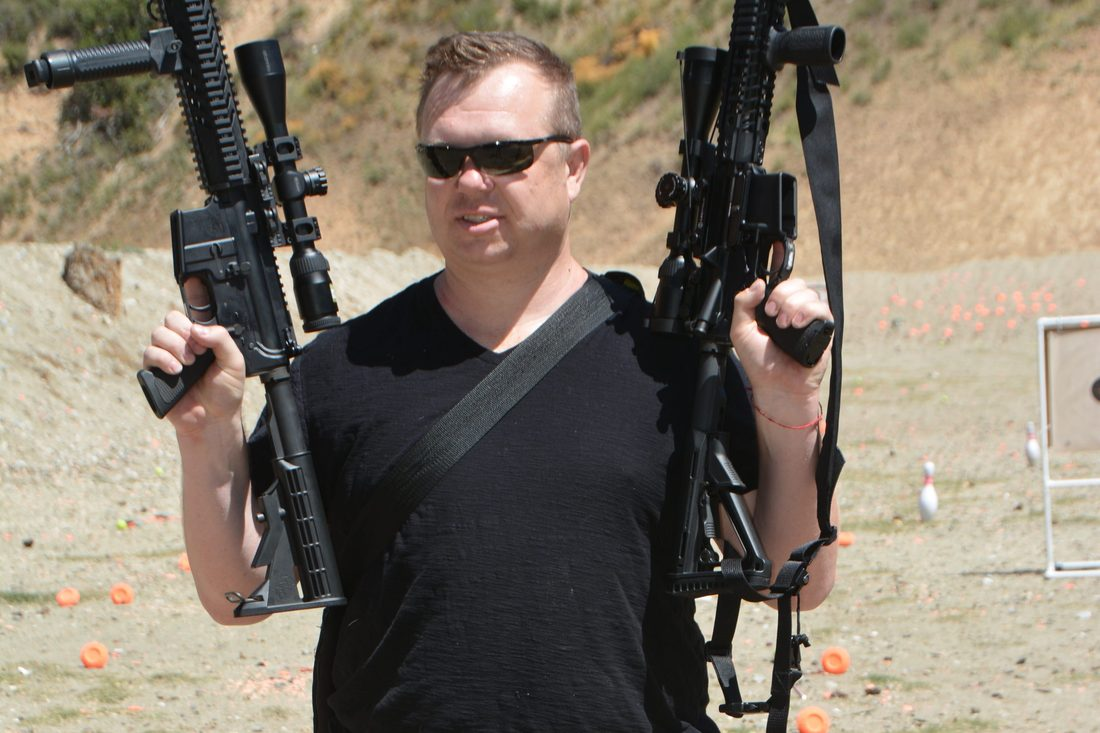
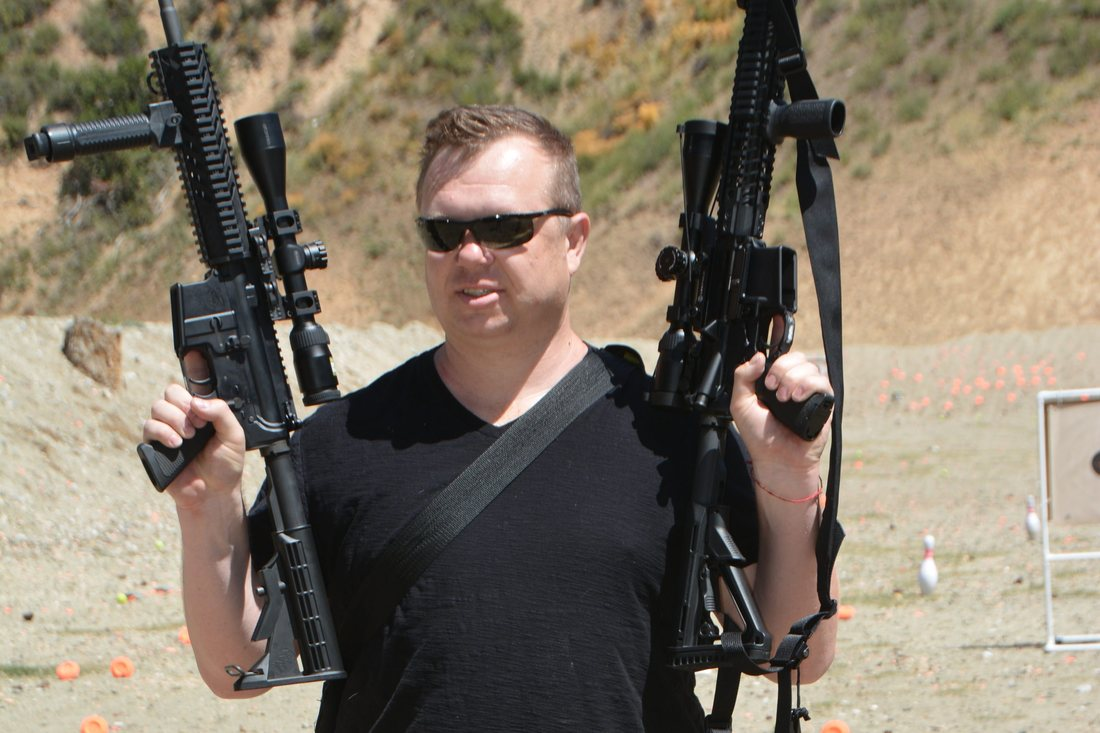
Кадрирование героя на страницах экскурсий: сюжет не срезается сверху

diff --git a/site/assets/style.css b/site/assets/style.css
@@ -522,7 +522,8 @@ footer { background: #101116; color: rgba(242,237,227,.6); padding: 52px 0 100px
 .tpage { padding-top: 0; }
 .thero { position: relative; min-height: min(62svh, 520px); display: flex; align-items: flex-end; color: #fff; padding: 100px 0 40px; isolation: isolate; overflow: hidden; }
 .thero__bg { position: absolute; inset: 0; z-index: -2; }
-.thero__bg img { width: 100%; height: 100%; object-fit: cover; }
+/* Кадр смещён вверх: заголовок лежит внизу, а сюжет (люди, горизонт) — выше. */
+.thero__bg img { width: 100%; height: 100%; object-fit: cover; object-position: 50% 38%; }
 .thero::after { content: ""; position: absolute; inset: 0; z-index: -1; background: linear-gradient(180deg, rgba(14,15,12,.6), rgba(14,15,12,.14) 42%, rgba(14,15,12,.88)); }
 .thero h1 { margin: 16px 0 0; max-width: 18ch; }
 .crumbs { font-family: var(--mono); font-size: 11.5px; letter-spacing: .08em; text-transform: uppercase; color: rgba(255,255,255,.7); }
